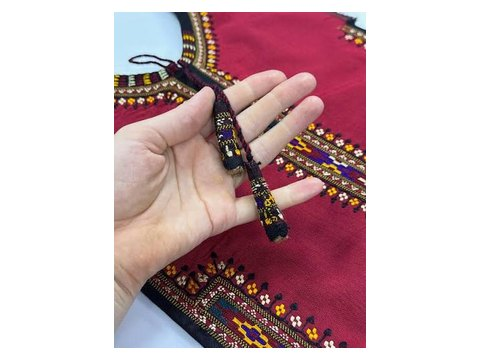
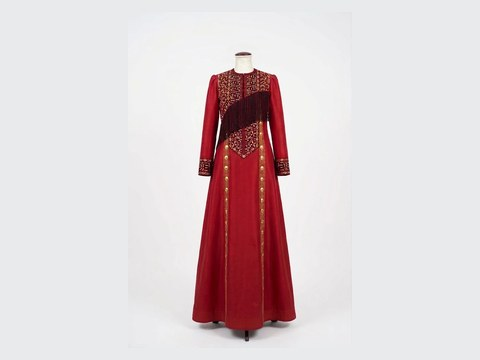
v103: «Личные вещи» — новые фото женской и национальной одежды, добавлен раздел «Ткани»
Claude-Session: https://claude.ai/code/session_012Yn8r1AKTsQ3jHhK8ZwiBo

diff --git a/index.html b/index.html
@@ -1499,7 +1499,7 @@ const SUBS = {
   home:        ["furniture","kitchenware","textile","carpets","lighting","other"],
   auto:        ["cars","trucks","buses","imported","special","moto","water","parts","tires","caracc","oils"],
   shoes:       ["womenshoes","menshoes","kidsshoes"],
-  personal:    ["womenclothes","menclothes","national","jewels","cosmetics","bags","backpacks"],
+  personal:    ["womenclothes","menclothes","national","fabrics","jewels","cosmetics","bags","backpacks"],
   appliances:  ["bigapp","kitchenapp","climate","smallapp","other"],
   jobs:        ["vacancy","resume"],
   rent:        ["rentcars","rentequip","renttools","rentevent","rentclothes","other"],
@@ -2523,7 +2523,7 @@ const Mock = (() => {
 // Пока пусто — сайт работает в ДЕМО-режиме с примерами товаров.
 const API_URL = "https://script.google.com/macros/s/AKfycbzE_x0tb5oQer_5hM41pVzWz0jUbtDN3jem04JUckEBTNhcsVAWOy0zlwo_c2vzWGQP/exec";
 const APP_NAME = "TM Bazar";
-const APP_VER = "102";   // номер версии — виден внизу профиля
+const APP_VER = "103";   // номер версии — виден внизу профиля
 
 // Нейросеть для поиска по фото (загружается в браузере только когда нужна)
 const CDN_TF = "https://cdn.jsdelivr.net/npm/@tensorflow/tfjs@4.22.0/dist/tf.min.js";
@@ -3155,7 +3155,7 @@ const SUB_PHOTO = Object.fromEntries(["cars","trucks","buses","imported","specia
   .concat(["mobiles","computers","tv","consoles","smartwatches","speakers","printers","cameras","phoneacc","security","ups","network","phoneparts","components"].map(k => ["electronics:"+k, 1]))
   .concat(["womenshoes","menshoes","kidsshoes"].map(k => ["shoes:"+k, 2]))
   .concat(["furniture","kitchenware","textile","carpets","lighting","other"].map(k => ["home:"+k, 1]))
-  .concat(["womenclothes","menclothes","national","jewels","cosmetics","bags","backpacks"].map(k => ["personal:"+k, 2])));
+  .concat(["womenclothes","menclothes","national","fabrics","jewels","cosmetics","bags","backpacks"].map(k => ["personal:"+k, ["womenclothes","national","fabrics"].includes(k) ? 3 : 2])));
 function tilePhoto(key){
   if (S.tiles && S.tiles[key]) return S.tiles[key];
   if (key === "cat:all") return "icons/logo.webp"; // «Все товары» — всегда логотип

diff --git a/sw.js b/sw.js
@@ -1,7 +1,7 @@
 // TM Bazar — работа как приложение на телефоне.
 // Страница всегда берётся свежей из сети (с проверкой обновления), а без интернета — из сохранённой копии.
 // Запросы к серверу (товары, чат, вход) не кешируются.
-const CACHE = "tm-bazar-v102";
+const CACHE = "tm-bazar-v103";
 const SHELL = ["./", "index.html", "manifest.webmanifest",
   "icons/icon-192.png", "icons/icon-512.png", "icons/apple-touch-icon.png", "icons/favicon.png", "icons/logo.webp", "icons/cart.png"];
 
